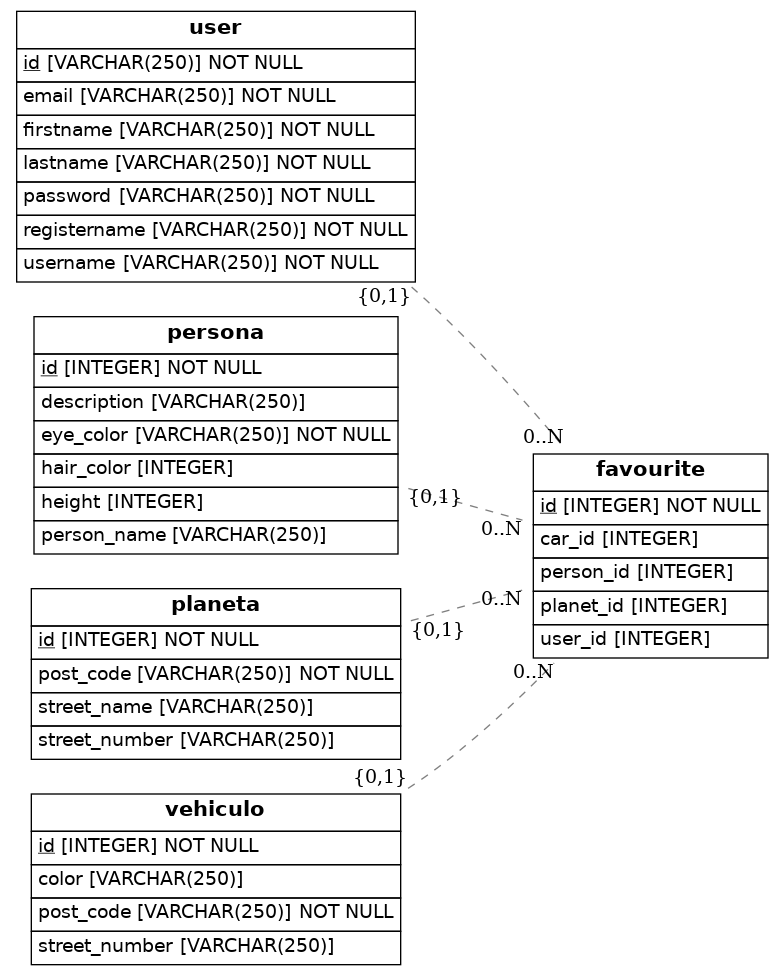
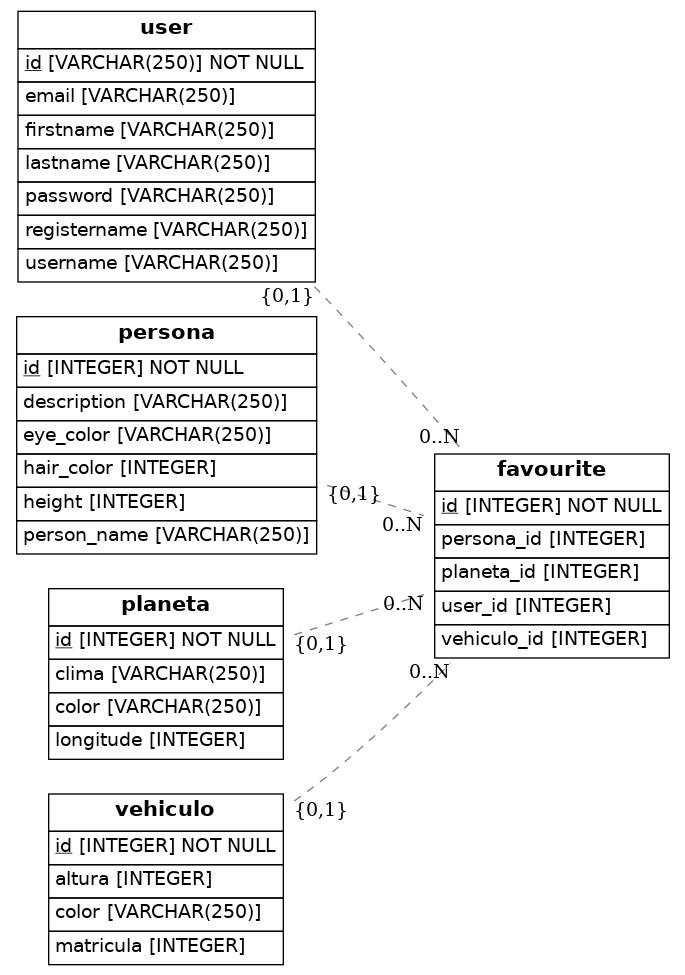
updating files

Changed region(s): [[0.0, 0.0, 0.981, 1.0]]

diff --git a/src/models.py b/src/models.py
@@ -13,12 +13,12 @@ class User(Base):
     # Here we define columns for the table person
     # Notice that each column is also a normal Python instance attribute.
     id= Column(String(250), primary_key=True)
-    username = Column(String(250),nullable=False)
-    password = Column(String(250), nullable=False)
-    firstname=Column(String(250), nullable=False)
-    lastname=Column(String(250), nullable=False)
-    registername=Column(String(250), nullable=False)
-    email=Column(String(250), nullable=False)
+    username = Column(String(250))
+    password = Column(String(250))
+    firstname=Column(String(250))
+    lastname=Column(String(250))
+    registername=Column(String(250))
+    email=Column(String(250))
 
 class Persona(Base):
     __tablename__ = 'persona'
@@ -27,7 +27,7 @@ class Persona(Base):
     id = Column(Integer, primary_key=True)
     person_name = Column(String(250))
     description = Column(String(250))
-    eye_color = Column(String(250), nullable=False)
+    eye_color = Column(String(250))
     hair_color = Column(Integer)
     height = Column(Integer)
     
@@ -41,9 +41,9 @@ class Planeta(Base):
     # Here we define columns for the table address.
     # Notice that each column is also a normal Python instance attribute.
     id = Column(Integer, primary_key=True)
-    street_name = Column(String(250))
-    street_number = Column(String(250))
-    post_code = Column(String(250), nullable=False)
+    color = Column(String(250))
+    clima = Column(String(250))
+    longitude = Column(Integer)
     
     
 
@@ -53,8 +53,8 @@ class Vehiculo(Base):
     # Notice that each column is also a normal Python instance attribute.
     id = Column(Integer, primary_key=True)
     color = Column(String(250))
-    street_number = Column(String(250))
-    post_code = Column(String(250), nullable=False)
+    matricula = Column(Integer)
+    altura = Column(Integer)
     
 
 
@@ -63,12 +63,12 @@ class Favourite(Base):
     # Here we define columns for the table address.
     # Notice that each column is also a normal Python instance attribute.
     id = Column(Integer, primary_key=True)
-    person_id = Column(Integer,ForeignKey("persona.id"))
+    persona_id = Column(Integer,ForeignKey("persona.id"))
     persona = relationship(Persona)
-    planet_id = Column(Integer,ForeignKey("planeta.id"))
+    planeta_id = Column(Integer,ForeignKey("planeta.id"))
     planeta = relationship(Planeta)
-    car_id = Column(Integer,ForeignKey("vehiculo.id"))
-    car = relationship(Vehiculo)
+    vehiculo_id = Column(Integer,ForeignKey("vehiculo.id"))
+    vehiculo = relationship(Vehiculo)
     user_id = Column(Integer, ForeignKey("user.id"))
     user= relationship(User)
     
